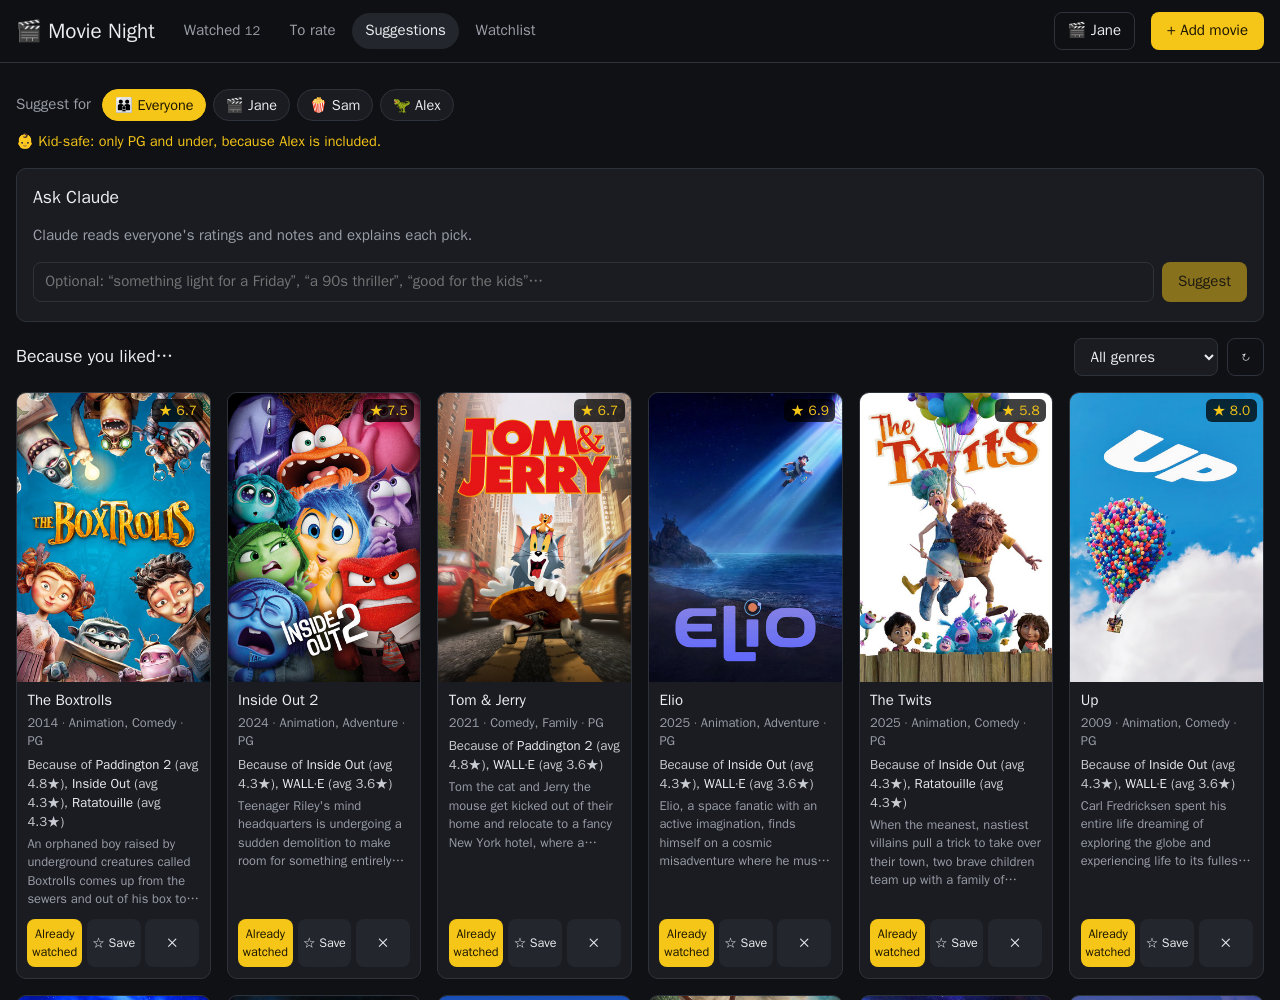
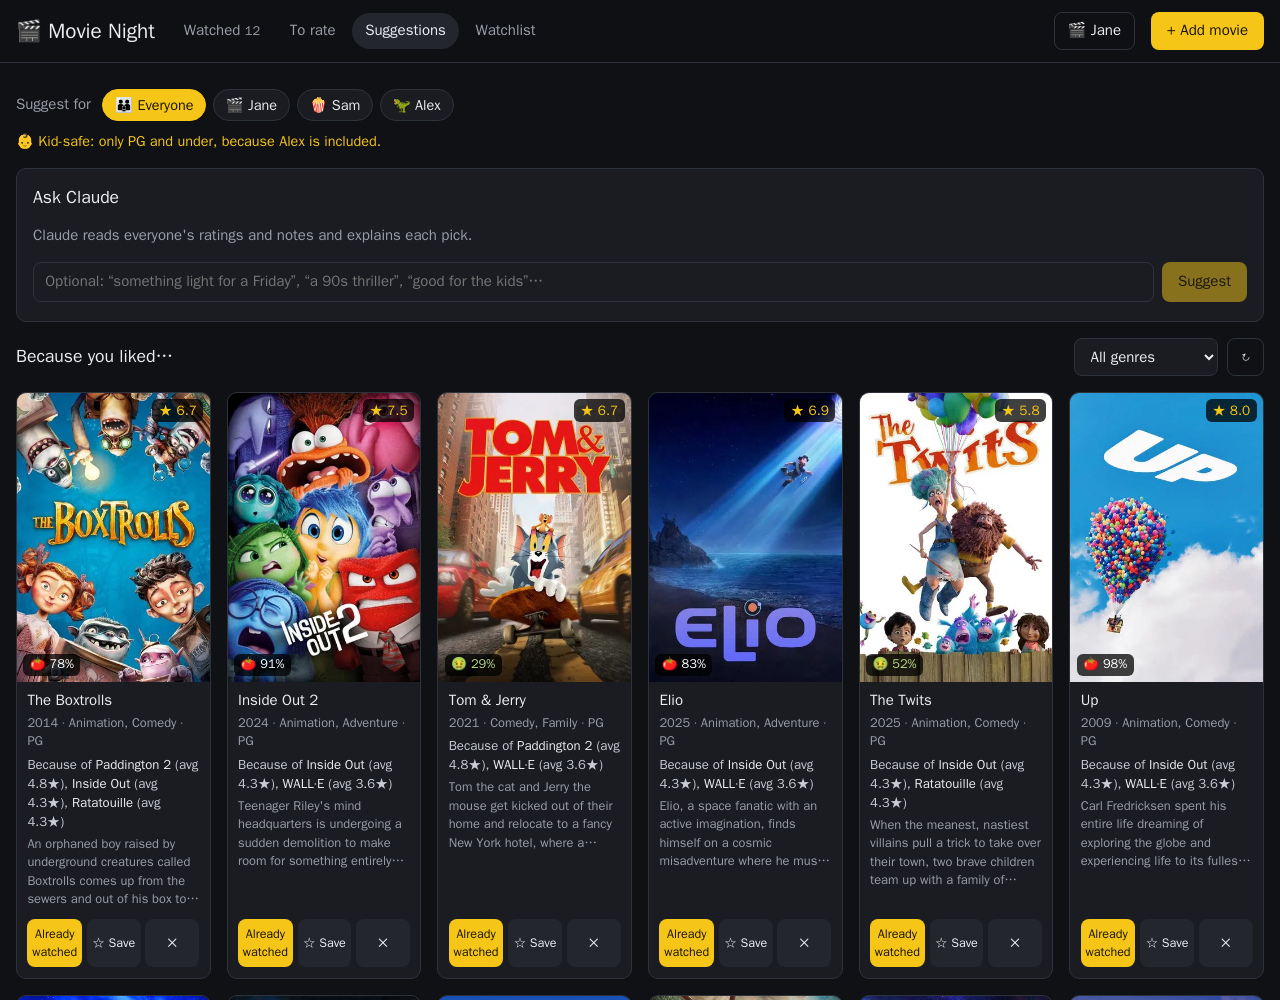
Rotten Tomatoes scores on suggestion and watchlist cards (via OMDb)
Optional OMDB_API_KEY. Scores load after the cards are drawn and are cached
for a week, including movies OMDb has no score for.

diff --git a/static/app.js b/static/app.js
@@ -654,6 +654,7 @@ function renderSuggestions() {
   const g = $("#genre-filter").value;
   const list = (state.suggestions || []).filter((m) => !g || (m.genres || []).includes(g));
   $("#suggest-grid").innerHTML = list.map((m) => suggestionCard(m)).join("");
+  fillRT($("#suggest-grid"));
   const empty = $("#suggest-empty");
   if (!state.status.tmdb) { empty.hidden = false; empty.textContent = "Add a TMDB API key to get these (see README)."; }
   else if (state.suggestions && !state.suggestions.length) { empty.hidden = false; empty.textContent = `Nothing yet for ${groupLabel()}. Rate a few movies higher than 3 stars.`; }
@@ -661,7 +662,28 @@ function renderSuggestions() {
   const genres = [...new Set((state.suggestions || []).flatMap((m) => m.genres || []))].sort();
   $("#genre-filter").innerHTML = `<option value="">All genres</option>` + genres.map((x) => `<option ${x === g ? "selected" : ""}>${esc(x)}</option>`).join("");
 }
-function renderClaude() { $("#claude-grid").innerHTML = claudeResults.map((m) => suggestionCard(m)).join(""); }
+function renderClaude() { $("#claude-grid").innerHTML = claudeResults.map((m) => suggestionCard(m)).join(""); fillRT($("#claude-grid")); }
+
+// Rotten Tomatoes Tomatometer badges (OMDb), fetched after the cards are drawn so they never slow them down
+const rtCache = {};
+function rtBadge(card, v) {
+  if (!v || card.querySelector(".rt")) return;
+  const n = parseInt(v, 10);
+  card.querySelector(".poster")?.insertAdjacentHTML("beforeend",
+    `<span class="rt ${n >= 60 ? "fresh" : "rotten"}" title="Rotten Tomatoes Tomatometer">${n >= 60 ? "🍅" : "🤢"} ${esc(v)}</span>`);
+}
+async function fillRT(grid) {
+  if (!state.status?.rt || !grid) return;
+  const cards = [...grid.querySelectorAll(".card[data-tmdb]")].filter((c) => c.dataset.tmdb);
+  cards.filter((c) => c.dataset.tmdb in rtCache).forEach((c) => rtBadge(c, rtCache[c.dataset.tmdb]));
+  const need = [...new Set(cards.map((c) => c.dataset.tmdb).filter((id) => !(id in rtCache)))];
+  for (let i = 0; i < need.length; i += 40) {
+    let got;
+    try { got = await api(`/rt?ids=${need.slice(i, i + 40).join(",")}`); } catch { return; }
+    Object.assign(rtCache, got);
+    cards.forEach((c) => { if (c.isConnected && c.dataset.tmdb in got) rtBadge(c, got[c.dataset.tmdb]); });
+  }
+}
 async function loadSuggestions(force) {
   renderForChips();
   if (!state.status.tmdb) return renderSuggestions();
@@ -737,6 +759,7 @@ async function onSuggestionClick(e) {
 async function loadWatchlist() {
   state.watchlist = await api("/watchlist");
   $("#watchlist-grid").innerHTML = state.watchlist.map((m) => suggestionCard(m, "watchlist")).join("");
+  fillRT($("#watchlist-grid"));
   $("#watchlist-empty").hidden = state.watchlist.length > 0;
   $("#count-watchlist").textContent = state.watchlist.length || "";
 }

diff --git a/static/style.css b/static/style.css
@@ -82,6 +82,11 @@ input:focus, select:focus, textarea:focus { outline: 2px solid var(--accent); ou
   position: absolute; top: .4rem; right: .4rem; background: rgba(0,0,0,.75); color: var(--accent);
   border-radius: 6px; padding: .1rem .4rem; font-weight: 700; font-size: .85rem;
 }
+.card .rt {
+  position: absolute; bottom: .4rem; left: .4rem; background: rgba(0,0,0,.75); color: #fff;
+  border-radius: 6px; padding: .1rem .4rem; font-weight: 700; font-size: .8rem;
+}
+.card .rt.rotten { color: #b8d98a; }
 .card .body { padding: .55rem .65rem .7rem; display: flex; flex-direction: column; gap: .25rem; flex: 1; }
 .card .title { font-weight: 600; line-height: 1.25; }
 .card .meta { color: var(--muted); font-size: .8rem; }

diff --git a/app.py b/app.py
@@ -33,6 +33,7 @@ EMBY_KEY = os.environ.get("EMBY_API_KEY", "").strip()
 # Optional comma list of Emby user names to import; empty = every user
 EMBY_USERS = [u.strip().lower() for u in os.environ.get("EMBY_USERS", "").split(",") if u.strip()]
 EMBY_SYNC_HOURS = float(os.environ.get("EMBY_SYNC_HOURS", "6"))
+OMDB_KEY = os.environ.get("OMDB_API_KEY", "").strip()   # optional: Rotten Tomatoes scores via omdbapi.com
 
 app = Flask(__name__, static_folder="static", static_url_path="")
 
@@ -368,6 +369,46 @@ def tmdb_get(path, params=None, cache=True):
         conn.close()
 
 
+# ---------------------------------------------------------------- Rotten Tomatoes (via OMDb)
+_omdb_pause_until = 0.0     # set when OMDb rejects the key or the daily limit is hit
+
+
+def rt_score(tid):
+    """Rotten Tomatoes Tomatometer for a TMDB id, e.g. "92%", or None. OMDb is looked up by IMDb id
+    (from TMDB). Results, including "no score", are cached for a week to stay under OMDb's daily limit."""
+    global _omdb_pause_until
+    key = f"omdb:{int(tid)}"
+    conn = connect()
+    try:
+        hit = conn.execute("SELECT value, fetched_at FROM cache WHERE key=?", (key,)).fetchone()
+        if hit and time.time() - hit["fetched_at"] < CACHE_TTL:
+            return json.loads(hit["value"]).get("rt")
+        if not OMDB_KEY or time.time() < _omdb_pause_until:
+            return None
+        try:
+            imdb = tmdb_get(f"/movie/{int(tid)}").get("imdb_id")
+        except TMDBError:
+            return None
+        rt = None
+        if imdb:
+            try:
+                d = requests.get("https://www.omdbapi.com/", params={"i": imdb, "apikey": OMDB_KEY}, timeout=10).json()
+            except (requests.RequestException, ValueError):
+                return None
+            err = d.get("Error") or ""
+            if "key" in err.lower() or "limit" in err.lower():   # invalid/unactivated key or daily limit: retry in an hour
+                _omdb_pause_until = time.time() + 3600
+                app.logger.warning("OMDb: %s", err)
+                return None
+            rt = next((r["Value"] for r in d.get("Ratings") or [] if r.get("Source") == "Rotten Tomatoes"), None)
+        conn.execute("INSERT OR REPLACE INTO cache (key, value, fetched_at) VALUES (?,?,?)",
+                     (key, json.dumps({"rt": rt}), int(time.time())))
+        conn.commit()
+        return rt
+    finally:
+        conn.close()
+
+
 def genre_map():
     try:
         return {g_["id"]: g_["name"] for g_ in tmdb_get("/genre/movie/list")["genres"]}
@@ -456,13 +497,23 @@ def index():
     return resp
 
 
+@app.get("/api/rt")
+def rt_scores():
+    """?ids=603,550 -> {"603": "83%", "550": null}: Rotten Tomatoes scores for the cards on screen."""
+    ids = [int(x) for x in request.args.get("ids", "").split(",") if x.strip().isdigit()][:80]
+    if not OMDB_KEY or not ids:
+        return jsonify({})
+    with ThreadPoolExecutor(8) as ex:
+        return jsonify(dict(zip(map(str, ids), ex.map(rt_score, ids))))
+
+
 @app.get("/api/status")
 def status():
     conn = db()
     last = conn.execute("SELECT value FROM meta WHERE key='emby_last_sync'").fetchone()
     pending = conn.execute("SELECT COUNT(*) FROM emby_queue WHERE status='pending'").fetchone()[0]
     return jsonify(tmdb=bool(TMDB_KEY), claude=bool(os.environ.get("ANTHROPIC_API_KEY")),
-                   emby=bool(EMBY_URL and EMBY_KEY), emby_last_sync=json.loads(last[0]) if last else None,
+                   emby=bool(EMBY_URL and EMBY_KEY), rt=bool(OMDB_KEY), emby_last_sync=json.loads(last[0]) if last else None,
                    emby_pending=pending, people=conn.execute("SELECT COUNT(*) FROM people").fetchone()[0])
 
 

diff --git a/README.md b/README.md
@@ -22,6 +22,8 @@ then get suggestions for one person or any group watching together.
   - *Ask Claude*: sends the whole rated list (with notes) plus an optional mood ("something light for Friday")
     to Claude, which returns 8 picks with a reason for each. For a group it looks for common ground. Uses `claude-opus-5-5` (override with `CLAUDE_MODEL`).
     Each click costs a few cents.
+  - With an OMDb key, suggestion and watchlist cards also show the **Rotten Tomatoes** Tomatometer
+    (🍅 fresh at 60%+, 🤢 rotten). Some movies have no score on OMDb and just show no badge.
 
   ![Suggestions for the whole family: kid-safe because Alex is included, with the reason for each pick](docs/suggestions.png)
 
@@ -77,6 +79,8 @@ Keys:
 - `EMBY_URL` / `EMBY_API_KEY`: Emby Dashboard → Advanced → API Keys. Optional `EMBY_USERS=Ben,Jess` to limit
   which Emby users are imported, `EMBY_SYNC_HOURS=0` for button-only.
 - `ANTHROPIC_API_KEY`: https://console.anthropic.com/settings/keys. Only needed for Ask Claude.
+- `OMDB_API_KEY`: free at https://www.omdbapi.com/apikey.aspx (activate it from the email). Only needed for
+  Rotten Tomatoes scores; they're cached for a week, so the free 1,000 lookups a day is plenty.
 
 TMDB responses are cached in the DB for 7 days, so the Suggestions tab is fast after the first load.
 
@@ -88,6 +92,7 @@ TMDB responses are cached in the DB for 7 days, so the Suggestions tab is fast a
 
 Made by Blake Martin. Movie details, posters and recommendations come from [TMDB](https://www.themoviedb.org/).
 This product uses the TMDB API but is not endorsed or certified by TMDB.
+Rotten Tomatoes scores come from [OMDb](https://www.omdbapi.com/).
 
 ## License
 
